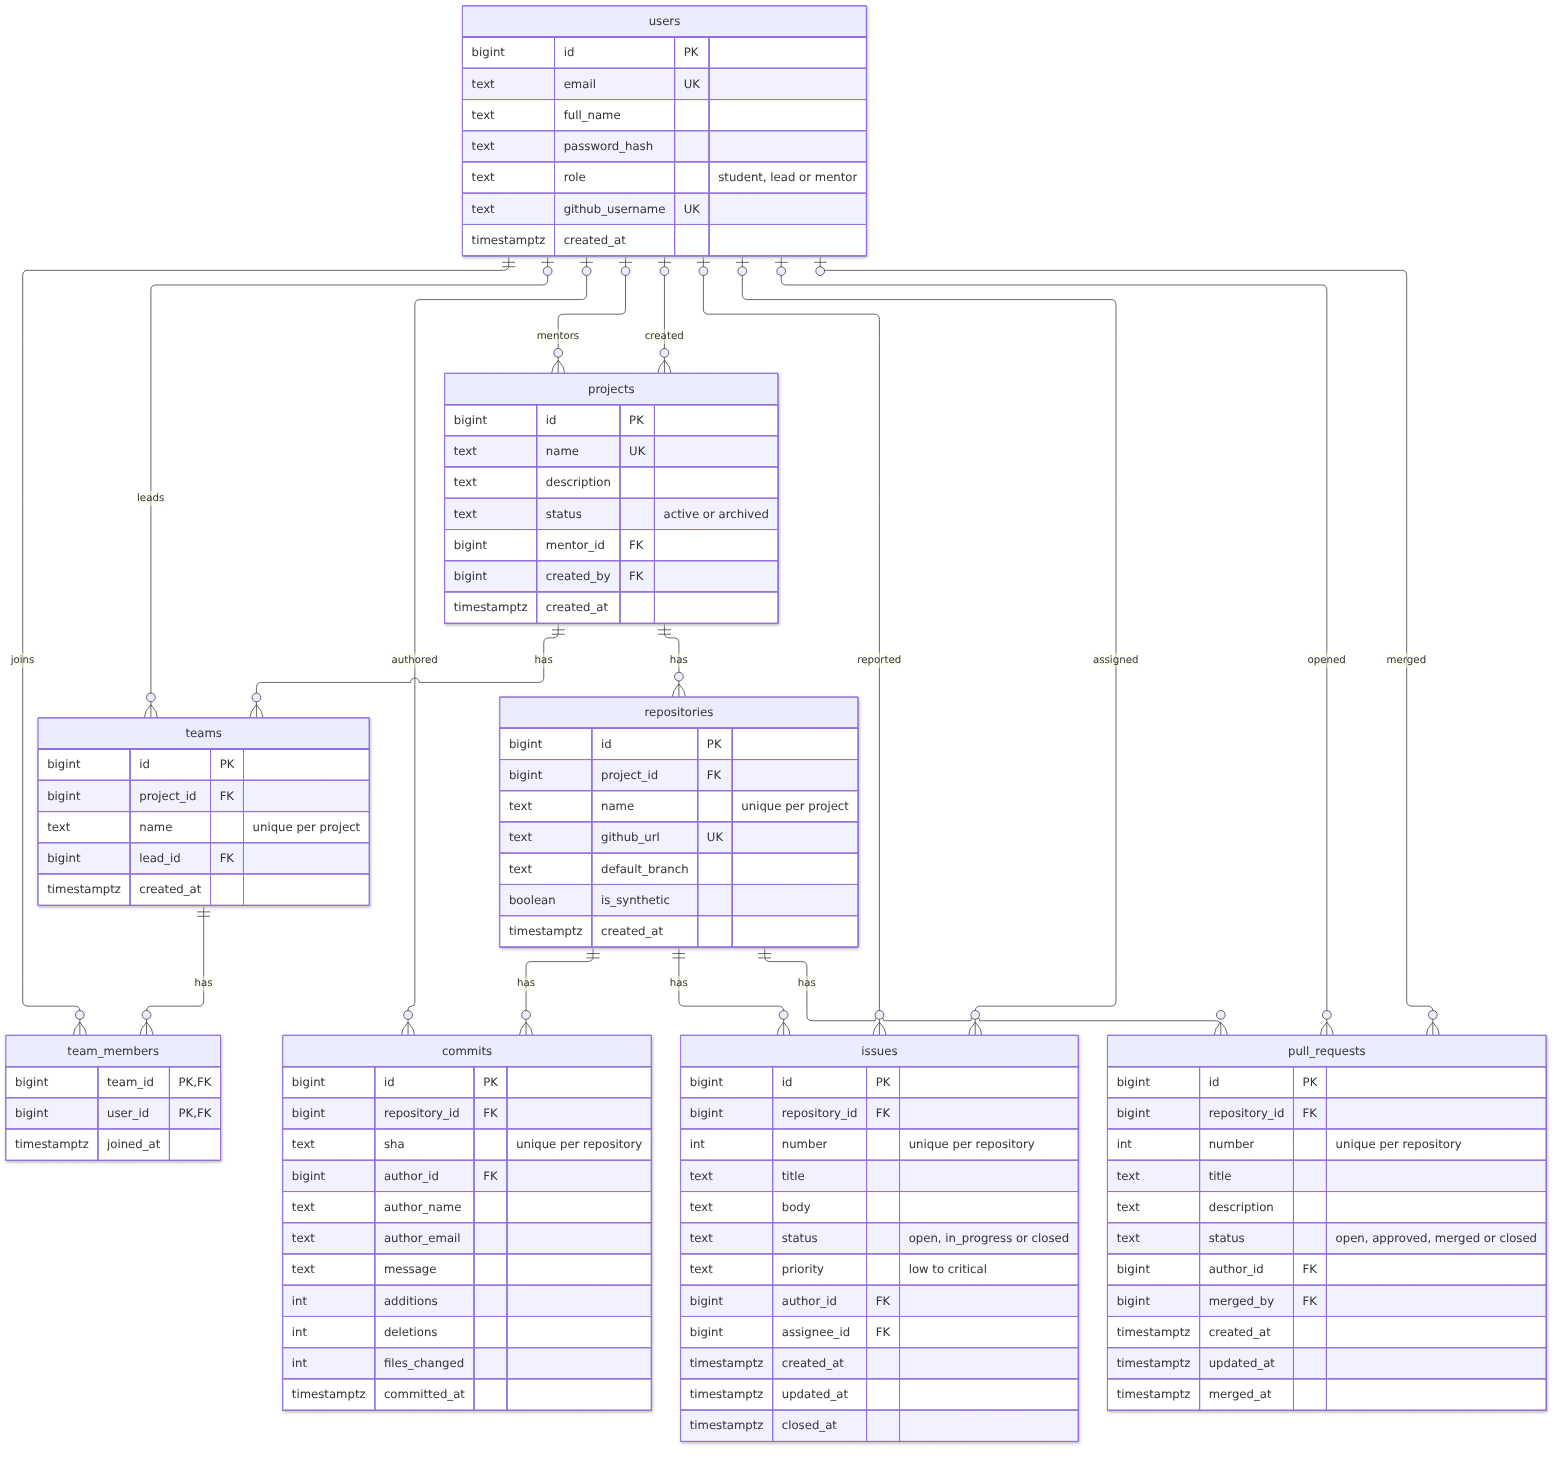
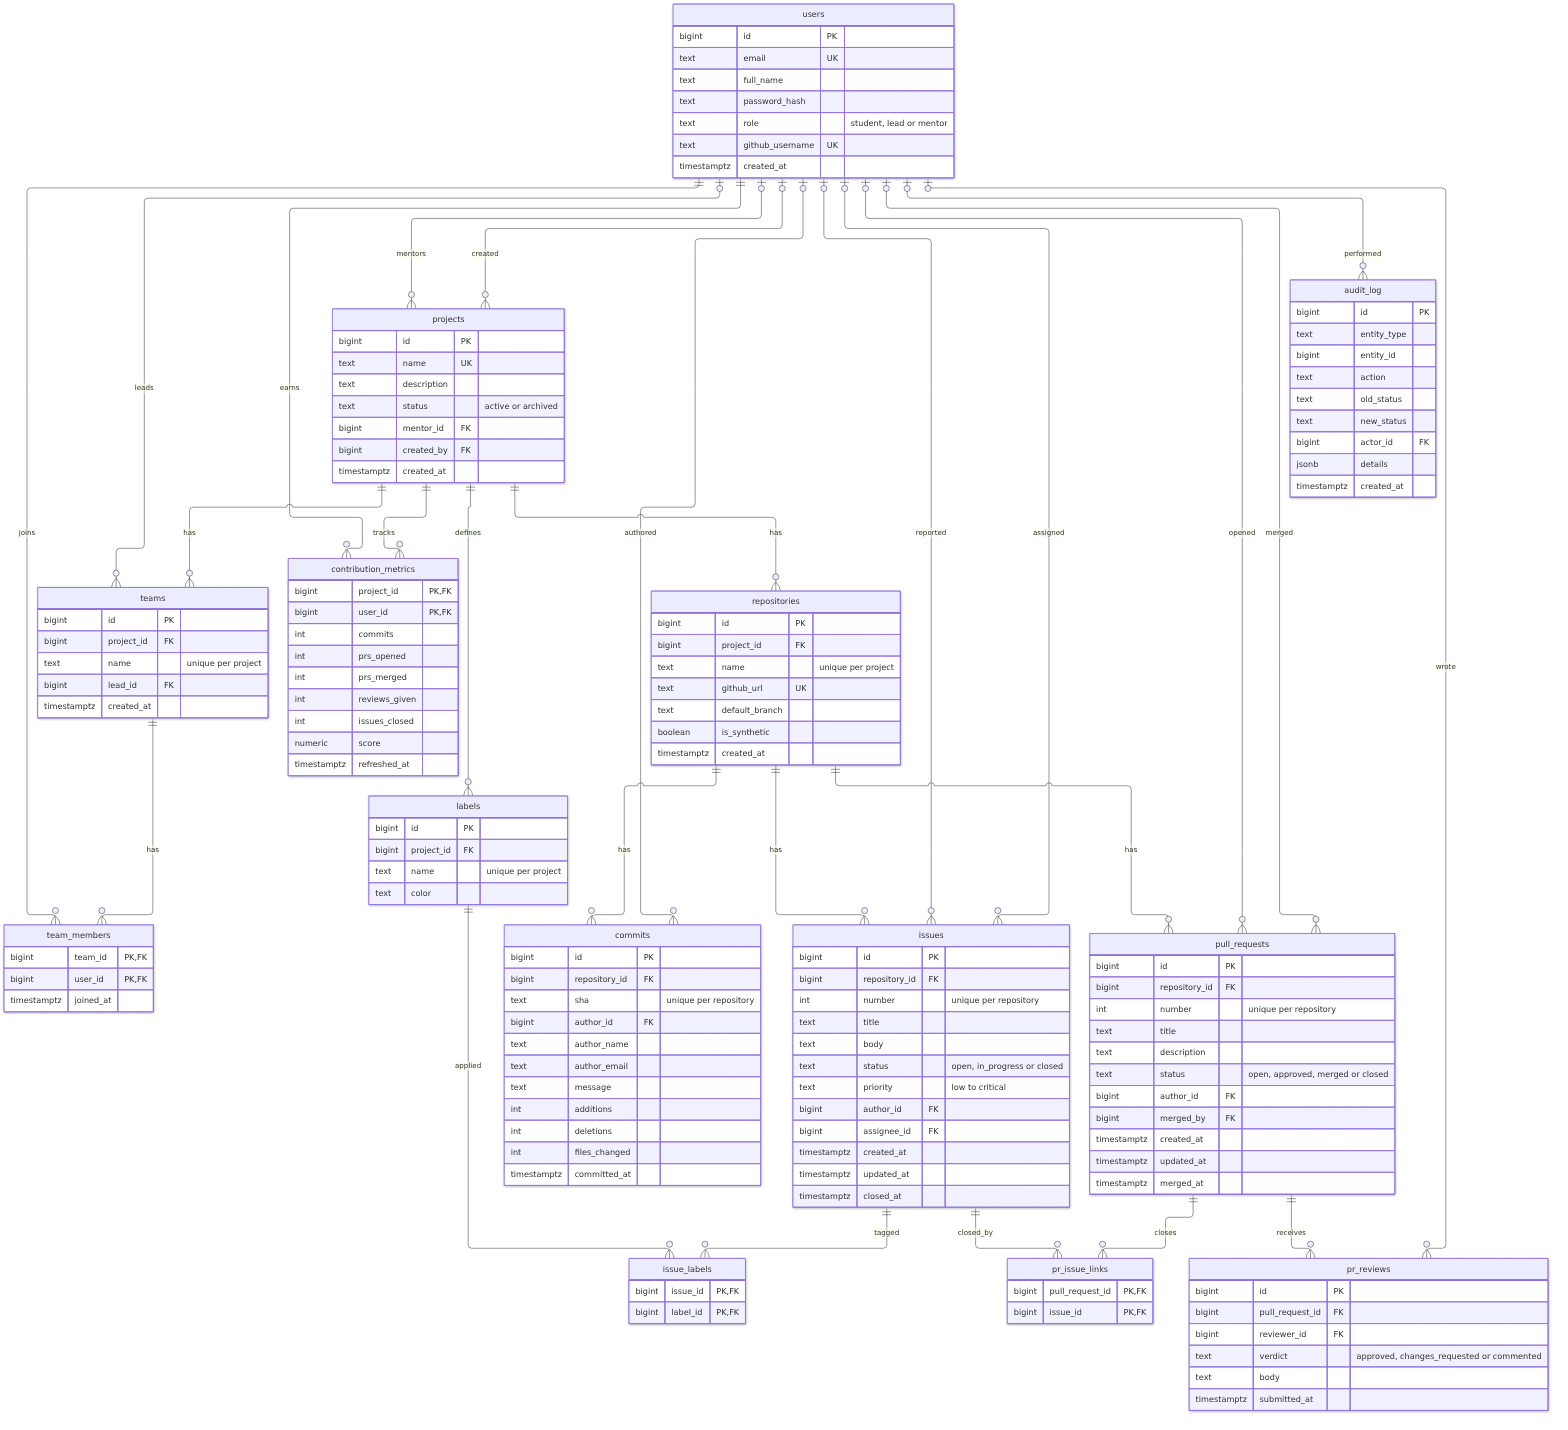
P1-05: add remaining six tables and extra constraints

diff --git a/docs/er_core.md b/docs/er_core.md
@@ -1,6 +1,6 @@
-# ER diagram: core 8 tables (P1-02)
+# ER diagram: all 14 tables (P1-02, P1-05)
 
-Mermaid source matching `db/schema/01_core.sql`. Render it with `docs/render_er.sh`, or paste the block into draw.io via Arrange → Insert → Advanced → Mermaid. Extend it with the remaining six tables in Week 2 (P1-05).
+Mermaid source matching `db/schema/01_core.sql`. Render it with `docs/render_er.sh`, or paste the block into draw.io via Arrange → Insert → Advanced → Mermaid. `audit_log.entity_id` is deliberately not a foreign key: one column refers to several tables, so history survives deletion of the row it describes.
 
 Notation: `||` = exactly one (mandatory FK), `|o` = zero or one (nullable FK), `o{` = zero or many.
 
@@ -21,6 +21,16 @@ erDiagram
     users |o--o{ issues : assigned
     users |o--o{ pull_requests : opened
     users |o--o{ pull_requests : merged
+    pull_requests ||--o{ pr_reviews : receives
+    users |o--o{ pr_reviews : wrote
+    pull_requests ||--o{ pr_issue_links : closes
+    issues ||--o{ pr_issue_links : closed_by
+    projects ||--o{ labels : defines
+    issues ||--o{ issue_labels : tagged
+    labels ||--o{ issue_labels : applied
+    users |o--o{ audit_log : performed
+    projects ||--o{ contribution_metrics : tracks
+    users ||--o{ contribution_metrics : earns
 
     users {
         bigint id PK
@@ -100,5 +110,49 @@ erDiagram
         timestamptz created_at
         timestamptz updated_at
         timestamptz merged_at
+    }
+    pr_reviews {
+        bigint id PK
+        bigint pull_request_id FK
+        bigint reviewer_id FK
+        text verdict "approved, changes_requested or commented"
+        text body
+        timestamptz submitted_at
+    }
+    pr_issue_links {
+        bigint pull_request_id PK, FK
+        bigint issue_id PK, FK
+    }
+    labels {
+        bigint id PK
+        bigint project_id FK
+        text name "unique per project"
+        text color
+    }
+    issue_labels {
+        bigint issue_id PK, FK
+        bigint label_id PK, FK
+    }
+    audit_log {
+        bigint id PK
+        text entity_type
+        bigint entity_id
+        text action
+        text old_status
+        text new_status
+        bigint actor_id FK
+        jsonb details
+        timestamptz created_at
+    }
+    contribution_metrics {
+        bigint project_id PK, FK
+        bigint user_id PK, FK
+        int commits
+        int prs_opened
+        int prs_merged
+        int reviews_given
+        int issues_closed
+        numeric score
+        timestamptz refreshed_at
     }
 ```
